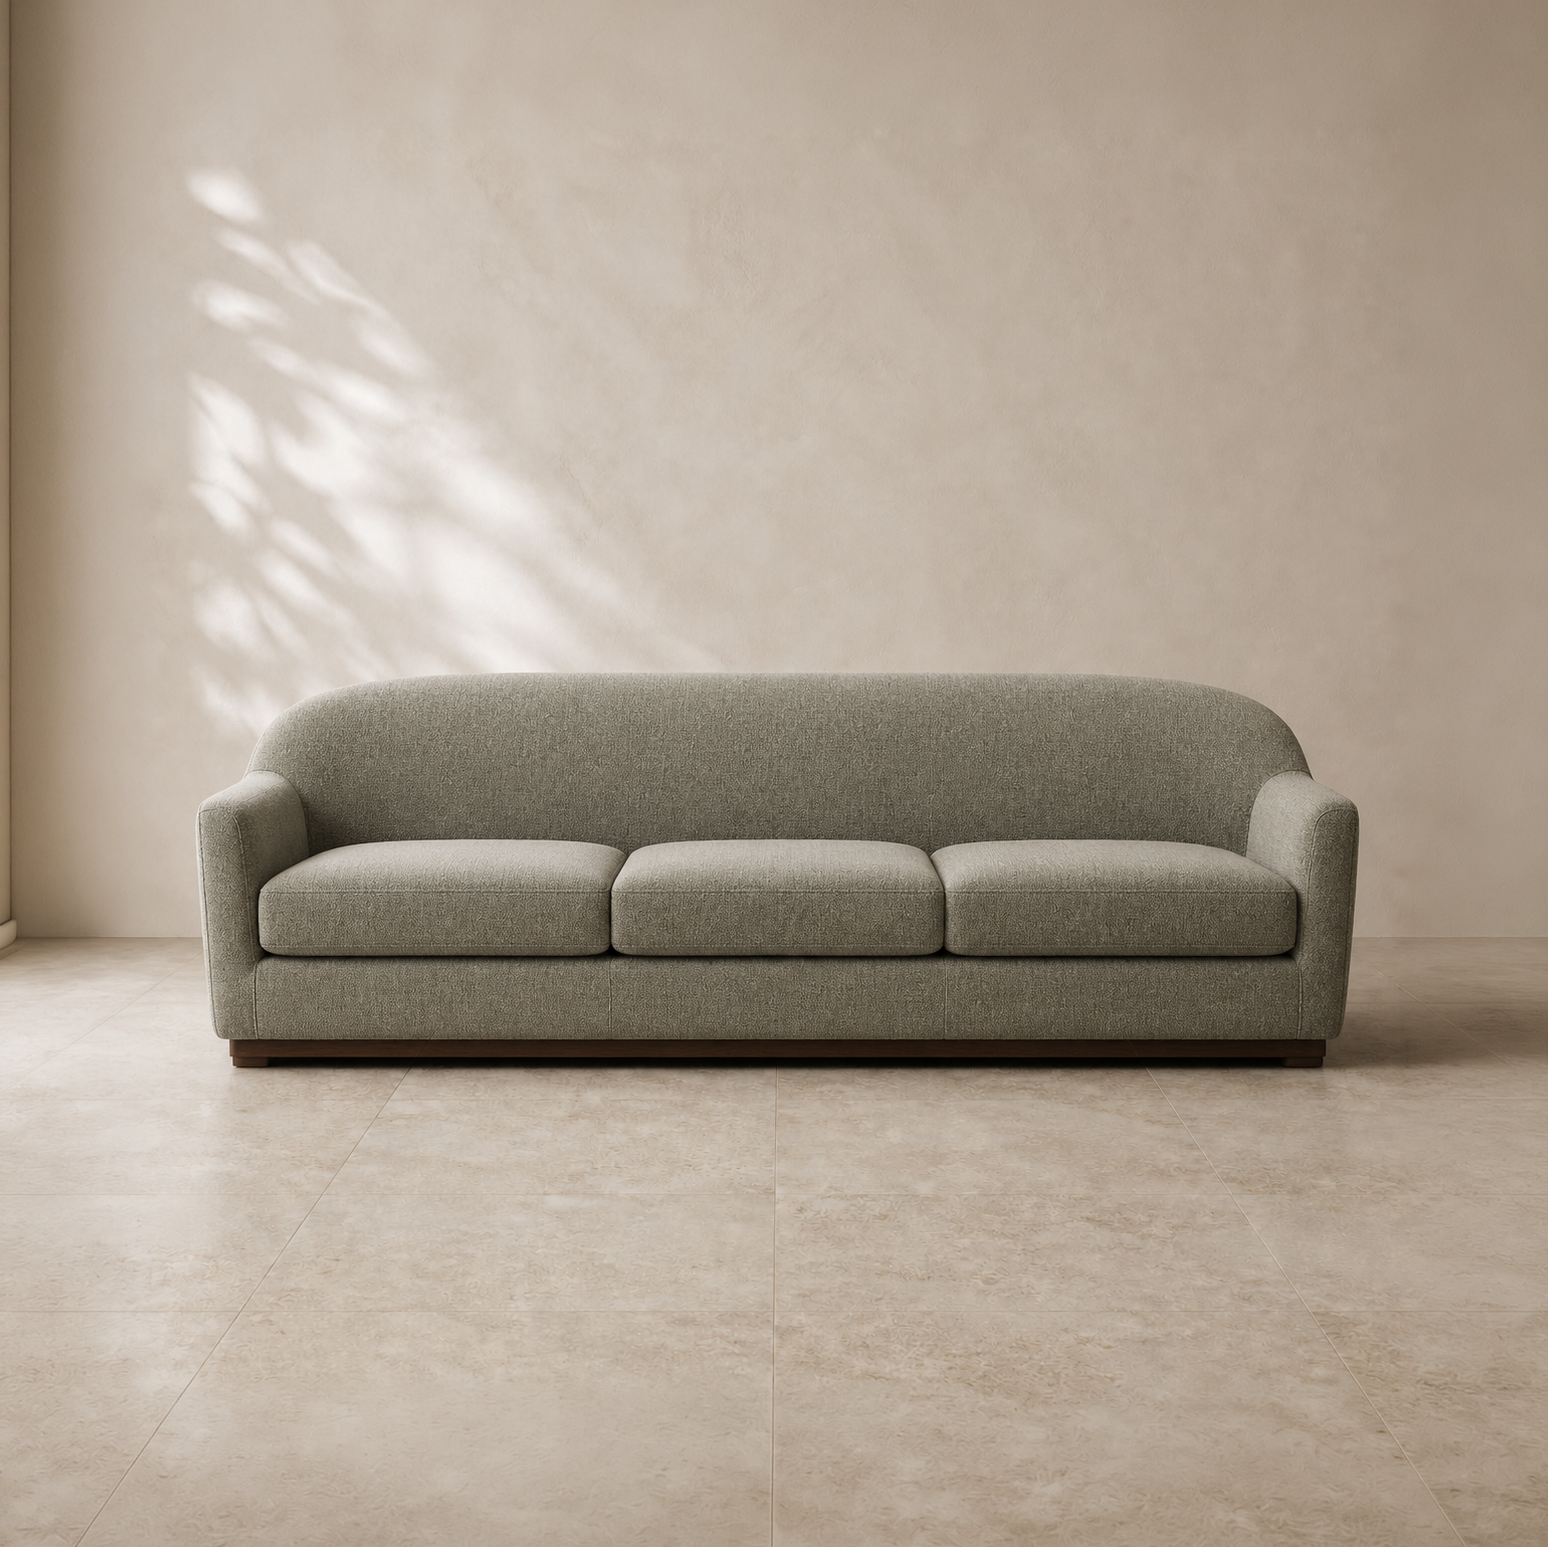
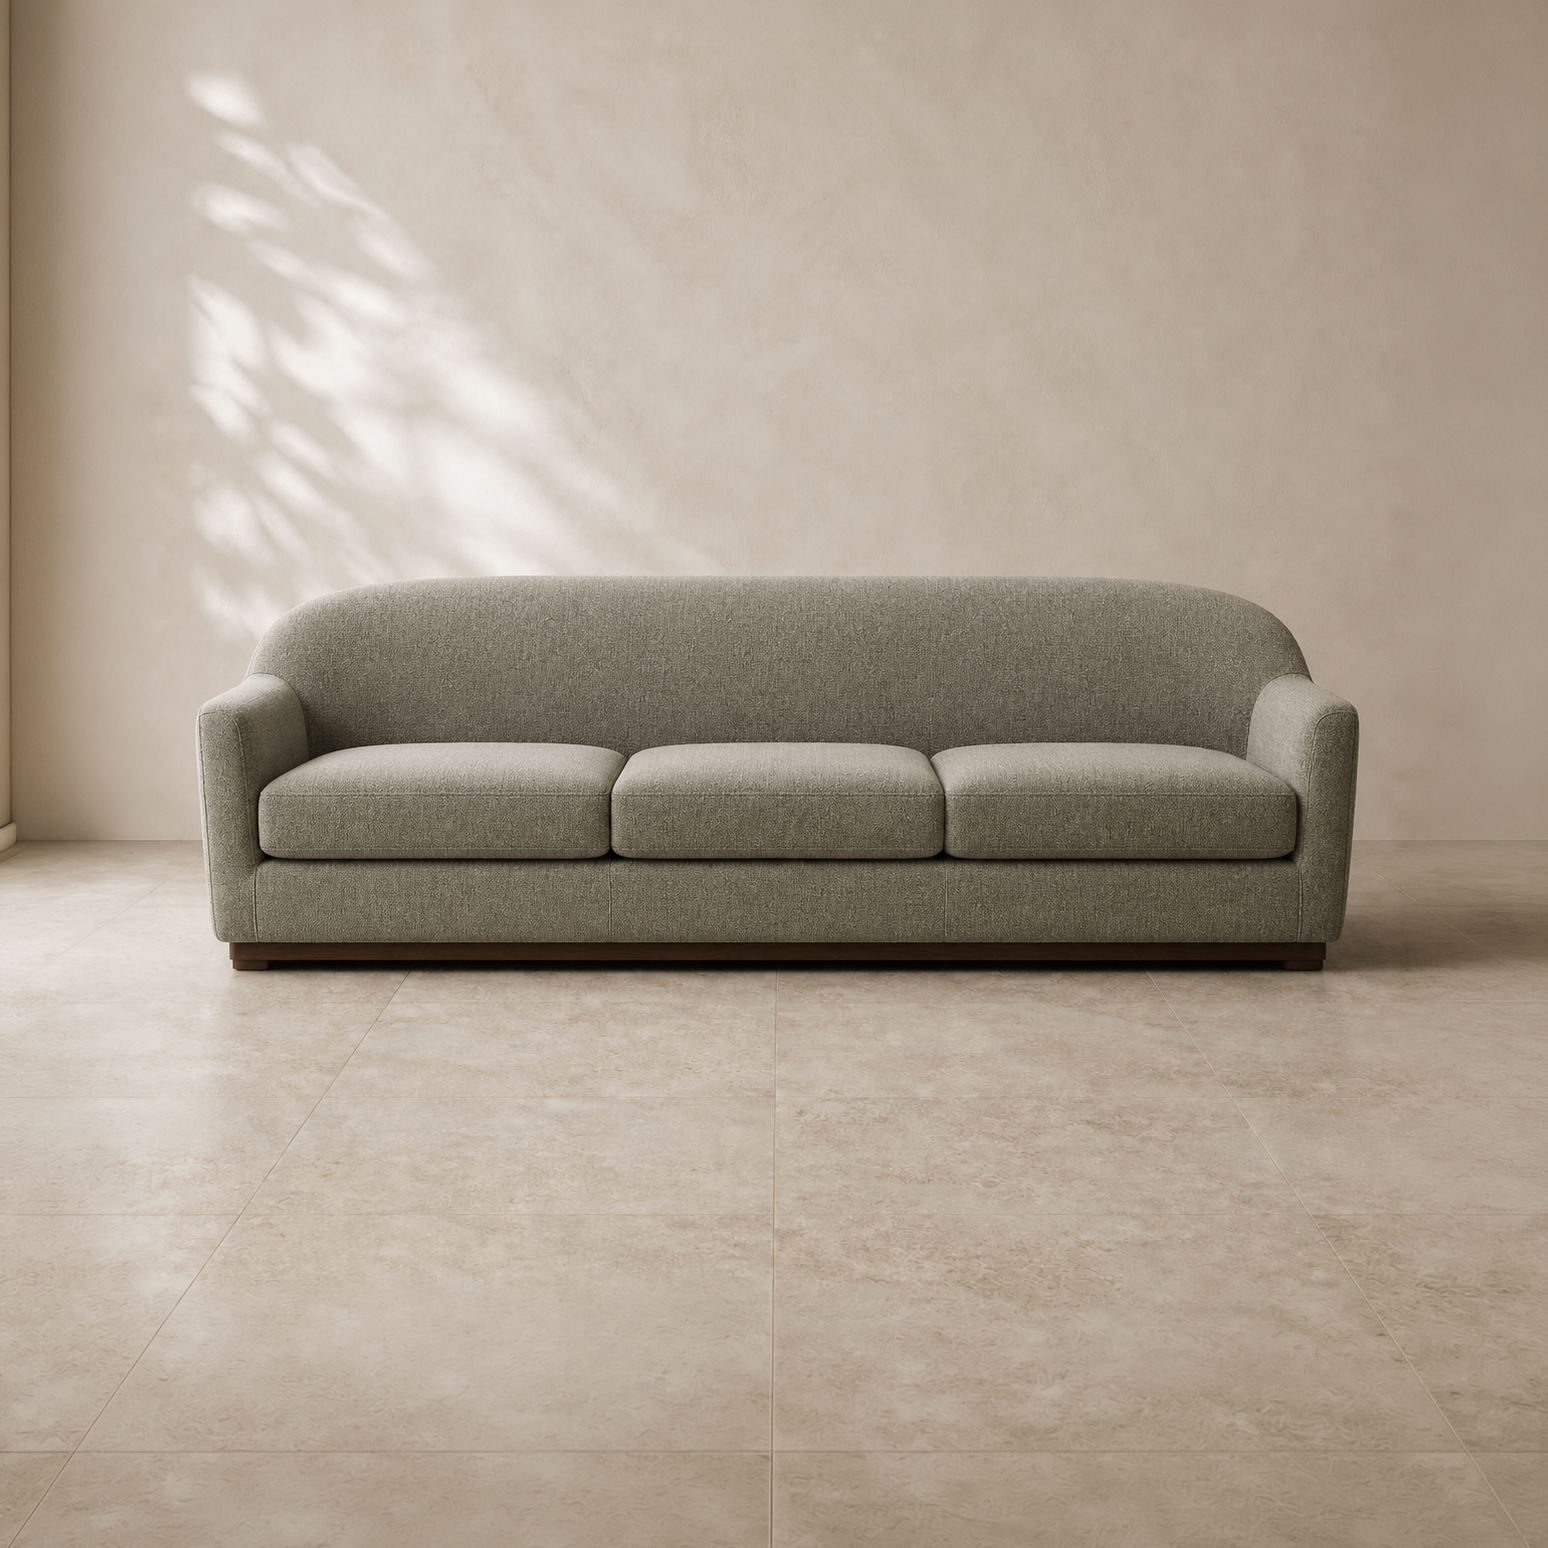
fix(catalog): contain sofa images in cards

diff --git a/src/styles/globals.css b/src/styles/globals.css
@@ -2402,15 +2402,19 @@ a {
   border-radius: var(--radius-sm);
 }
 
-.chairs-page__grid .product-preview__media,
-.sofas-page__grid .product-preview__media {
+.chairs-page__grid .product-preview__media {
   aspect-ratio: 4 / 5;
+  border-radius: 0;
+}
+
+.sofas-page__grid .product-preview__media {
+  aspect-ratio: 1;
   border-radius: 0;
 }
 
 .chairs-page__grid .product-preview__media img,
 .sofas-page__grid .product-preview__media img {
-  object-fit: cover;
+  object-fit: contain;
 }
 
 .chairs-page__grid .product-preview__content,

diff --git a/docs/progress.md b/docs/progress.md
@@ -838,3 +838,15 @@ tests/e2e/accessibility.spec.ts tests/e2e/header.spec.ts --project=chromium` —
 - Product Tour: без изменений.
 - Ограничения: автоматически поддерживаемый Next.js блок остаётся в `AGENTS.md`; `next dev` может
   повторно обновлять его независимо от копии в frontend-правилах.
+
+## Task 58 — Единое отображение изображений диванов
+
+- Результат: карточки диванов и галерея товара используют квадратную область изображения и
+  `object-fit: contain`, поэтому фотография показывается полностью без обрезания добавленных полей.
+  Формат карточек стульев `4 / 5` сохранён.
+- Файлы: `src/styles/globals.css`, `public/images/sofas/vela.png`, `docs/progress.md`.
+- Проверки: Prettier, ESLint, TypeScript, 52 Jest-теста и production build — успешно.
+- Переменные окружения: нет.
+- Архитектура: без изменений.
+- Product Tour: без изменений.
+- Ограничения: браузерная визуальная проверка не запускалась; E2E-файлы не изменялись.
